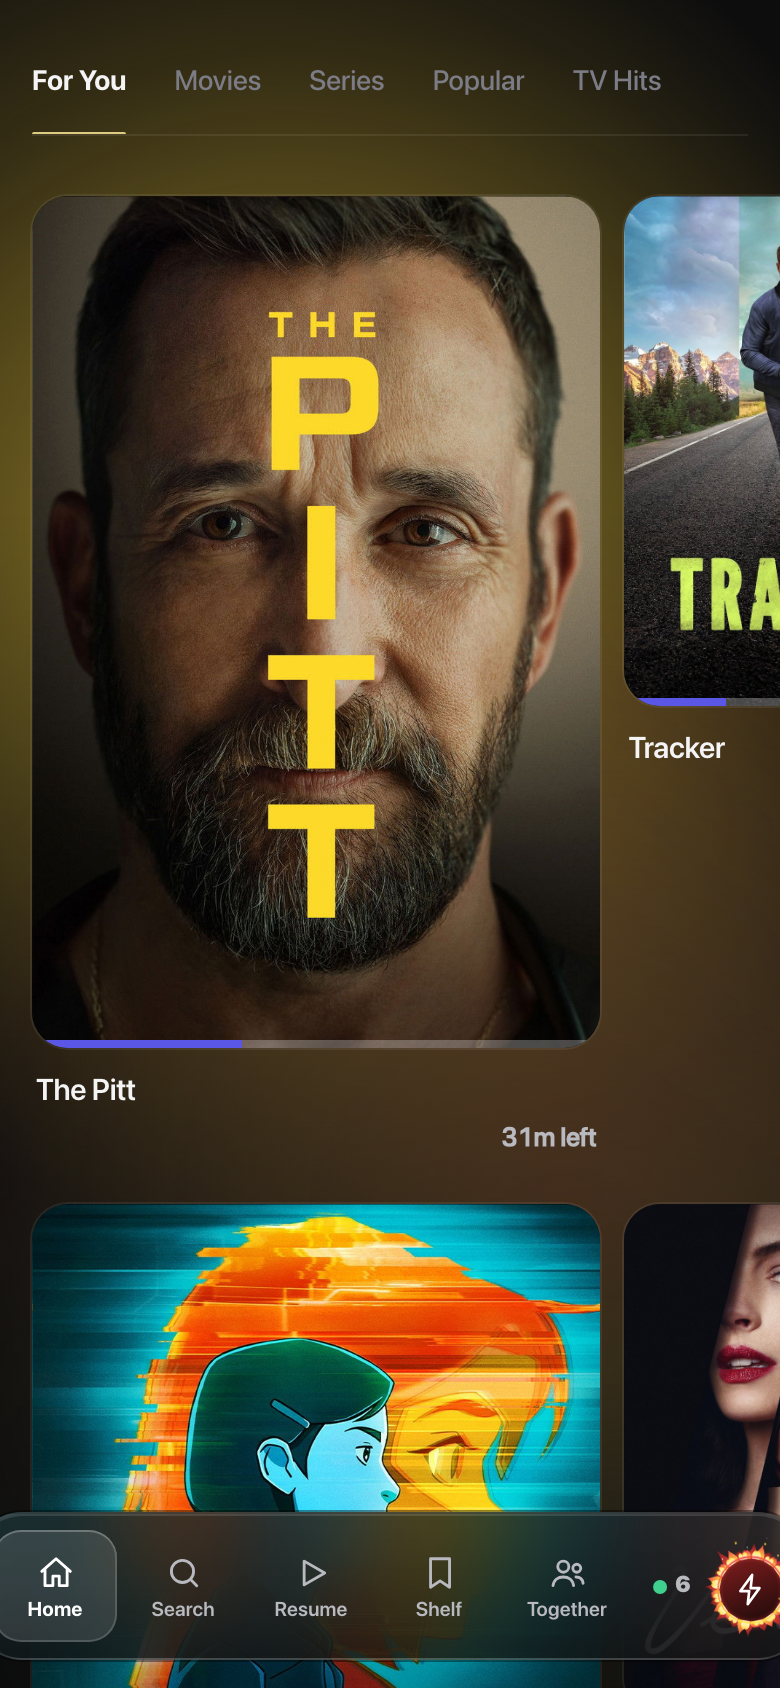
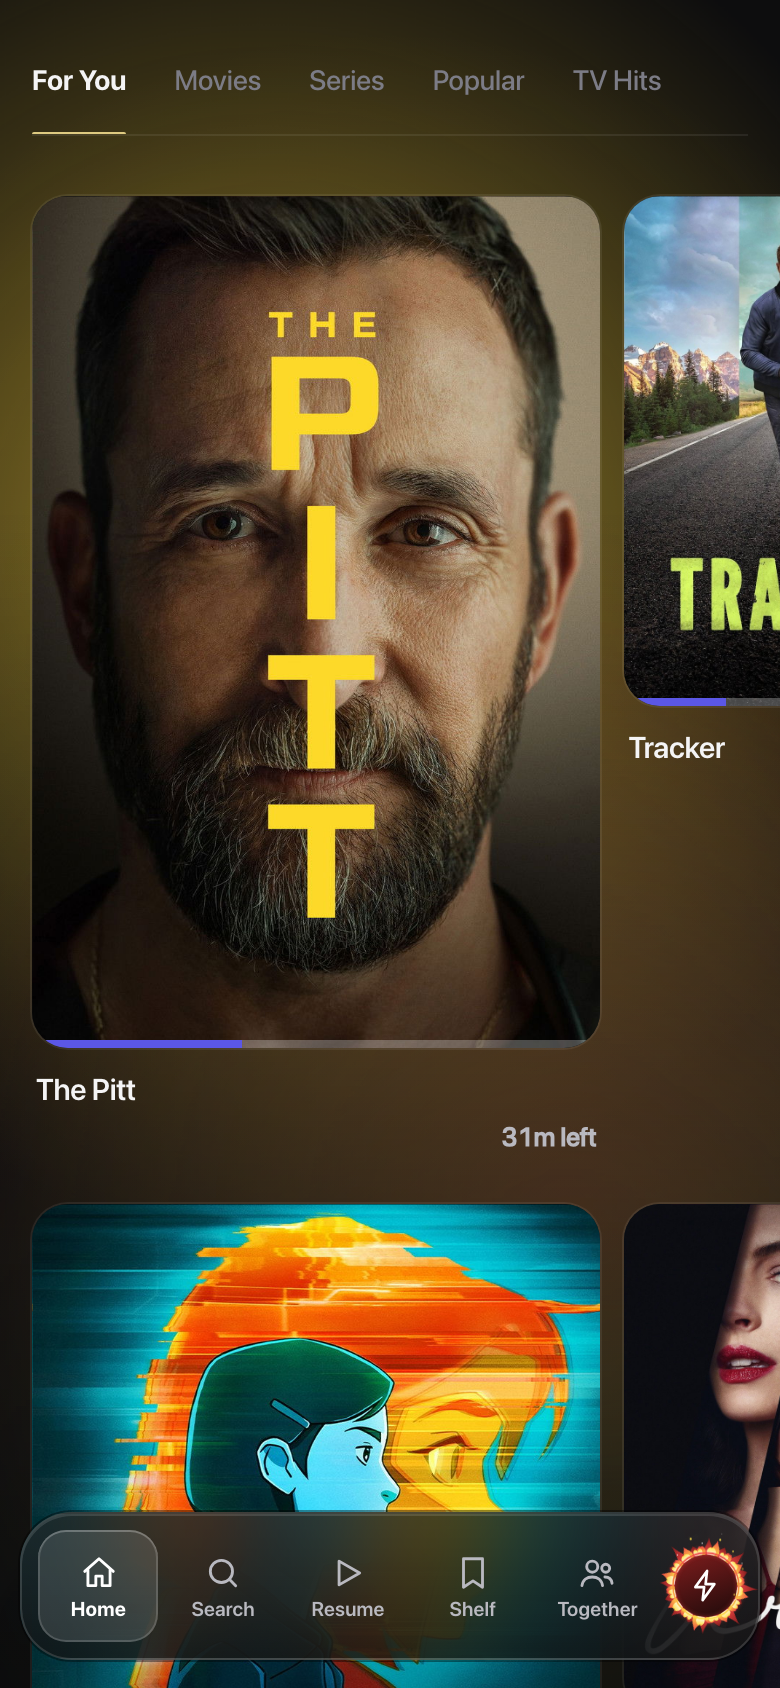
Fix search palette card widths and mobile bottom bar overflow; retake palette and mobile screenshots

diff --git a/web/css/browse.css b/web/css/browse.css
@@ -163,7 +163,7 @@ body.is-browse { background: var(--bg); }
 .pal-q kbd { font: inherit; font-size: 11px; border: 1px solid var(--border-strong); border-radius: 6px; padding: 1px 7px; }
 .pal-r { max-height: 62vh; overflow-y: auto; padding: 16px; }
 .pal-strip { display: flex; gap: 14px; overflow-x: auto; padding: 6px 6px 18px; }
-.pal-t { flex: 0 0 120px; cursor: pointer; opacity: .6; transition: opacity .2s; } .pal-t.on { opacity: 1; }
+.pal-t { flex: 0 0 120px; width: 120px; min-width: 0; max-width: 120px; overflow: hidden; cursor: pointer; opacity: .6; transition: opacity .2s; } .pal-t.on { opacity: 1; }
 .pal-t .pp { aspect-ratio: 2/3; border-radius: 14px; background: var(--surface) center / cover; transition: box-shadow .2s; } .pal-t.on .pp { box-shadow: 0 0 0 2px var(--text); }
 .pal-t b { display: block; font-size: 12.5px; margin-top: 8px; font-weight: 600; overflow: hidden; text-overflow: ellipsis; white-space: nowrap; } .pal-t span { font-size: 11.5px; color: var(--muted); }
 .pal-c { display: flex; align-items: center; gap: 12px; padding: 11px 14px; border-radius: 12px; color: var(--text-2); cursor: pointer; } .pal-c.on { background: var(--hover); color: var(--text); }
@@ -330,3 +330,11 @@ body.is-browse { background: var(--bg); }
 html { scrollbar-gutter: stable; }
 html:has(.dossier.open, .wp, .pal, .nowv, .launch), html:has(.dossier.open, .wp, .pal, .nowv, .launch) body { overflow: hidden; }
 .dleft, .dright, .dgrid, .pal-r, .wp-menu { overscroll-behavior: contain; }
+
+/* phones: the bottom bar must fit the screen (it used to run past the right edge) */
+@media (max-width: 720px) {
+  .rail { width: calc(100vw - 20px); max-width: 520px; justify-content: space-between; padding: 8px 8px; }
+  .rail .ri { width: auto; flex: 1 1 0; min-width: 0; }
+  .rail .rme { flex: none; margin: 0 0 0 4px; }
+  .rail .rnode { display: none; }
+}
